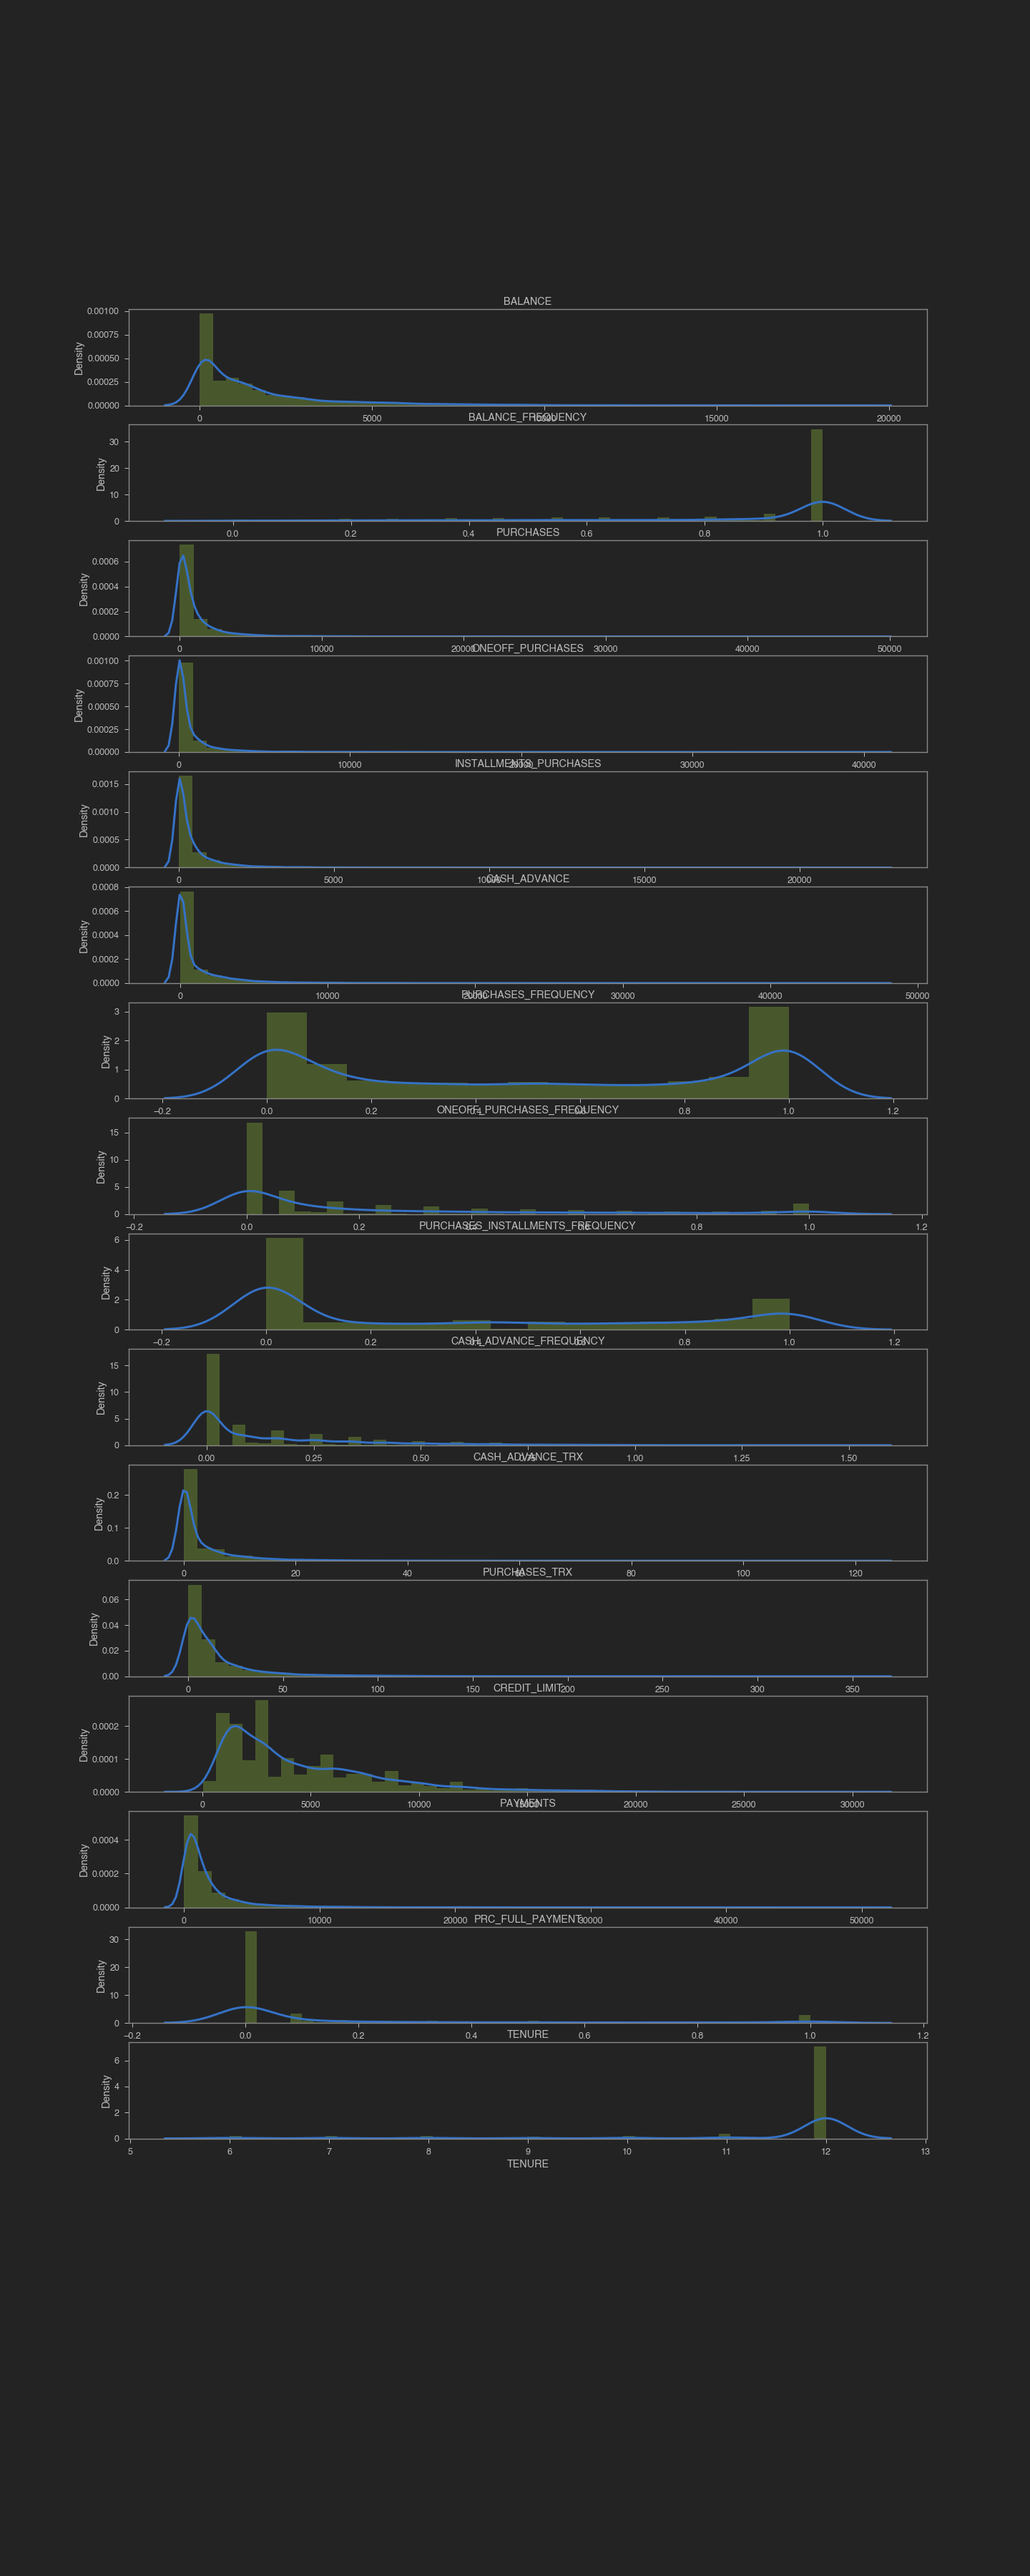
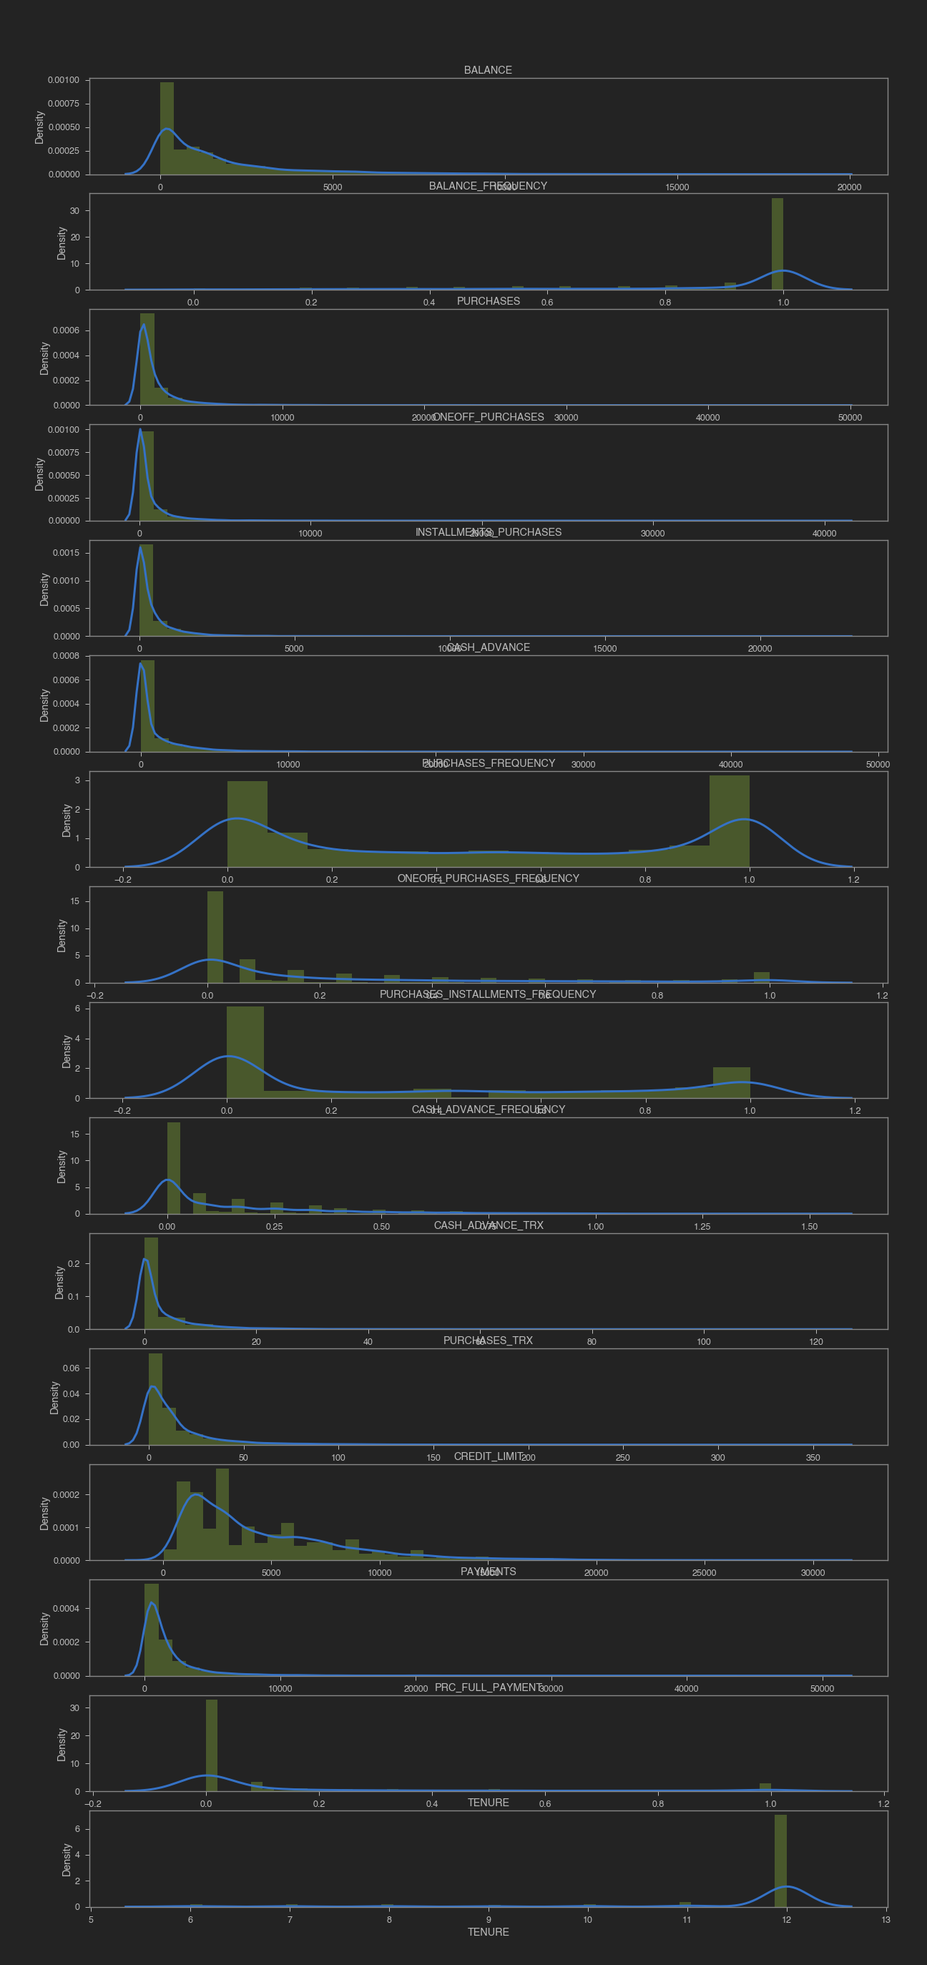
updating project files

diff --git a/README.md b/README.md
@@ -73,8 +73,11 @@ The data source is collected from Kaggle - https://www.kaggle.com/arjunbhasin201
 
 ## 1. PERFORMING DATA ANALYSIS
 
+A) Kernal Density Plot - 
+
 ![analysis](Images/Distplot.png)
 
+B) Heatmap - For performing Correlation analysis
 
 ![analysis1](Images/Heatmap.png)
 
